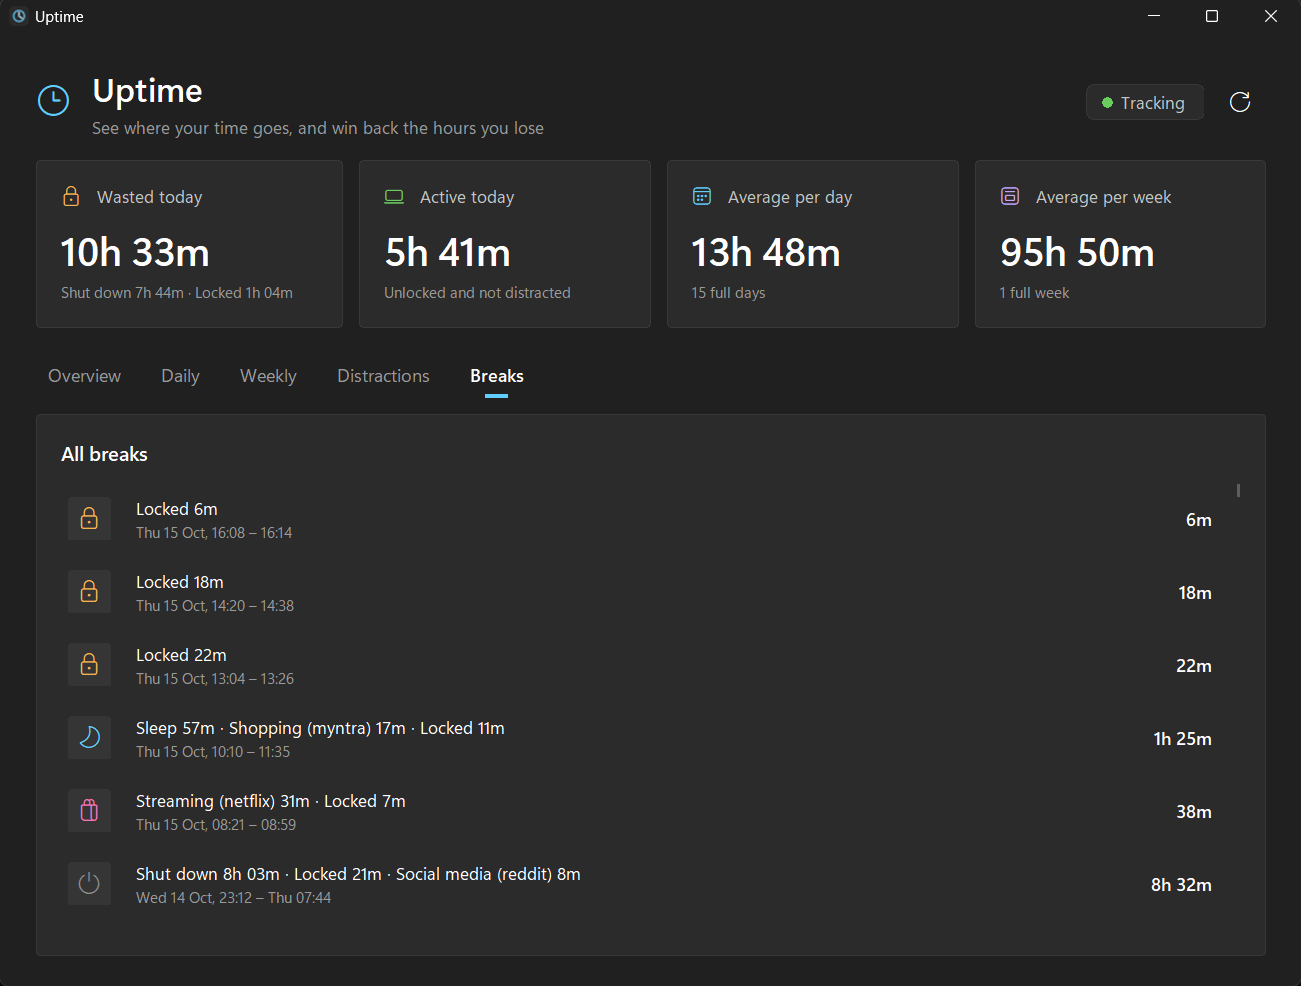
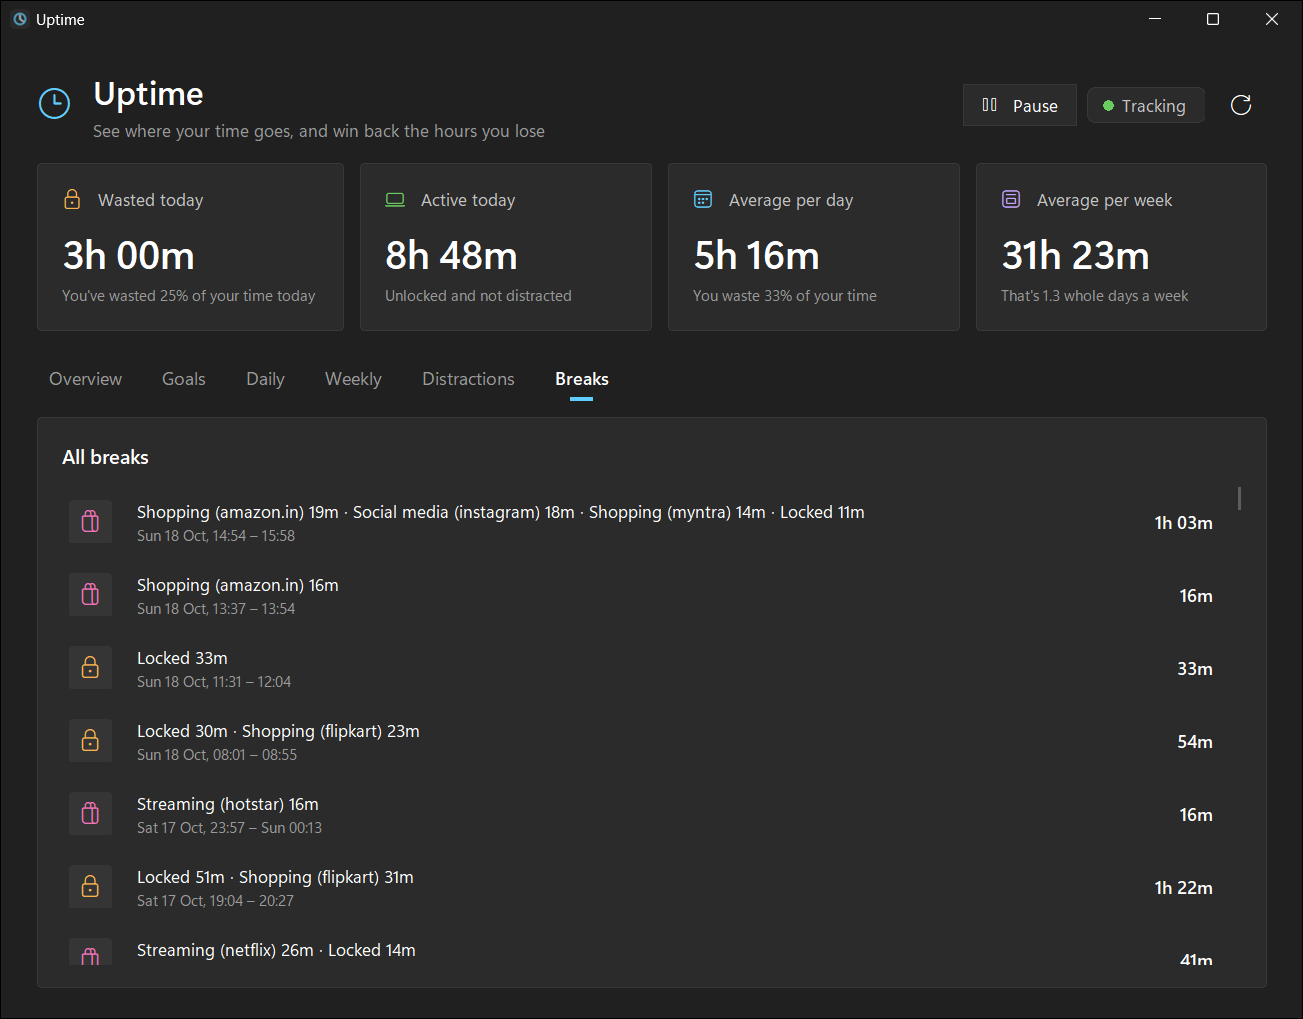
Update README and screenshots; keep long list rows on one line
- README covers the goals, the new percentages and the "whole days a
  week" figure; screenshots retaken from made-up demo data.
- Daily and Breaks rows cut long text short with … instead of wrapping
  over the line below, and rows without a bar use the full width.

diff --git a/README.md b/README.md
@@ -8,7 +8,7 @@
 
 I wanted an honest answer to *"where did my day actually go?"*. Uptime runs quietly in the background on my Windows laptop. It adds up every minute the laptop is **locked, asleep, shut down**, or sitting on a **shopping or social media site**. Then it shows me the total in a big, unforgiving number.
 
-It turns out that seeing *"Wasted today: 6h 12m"* and *"Shopping · flipkart: 1h 40m this week"* is surprisingly good motivation to close the tab and get back to work. 😅
+It turns out that seeing *"Wasted today: 6h 12m"*, *"You waste 33% of your time"* and *"Shopping · flipkart: 1h 40m this week"* is surprisingly good motivation to close the tab and get back to work. 😅 Each morning it also asks what I want to get done that day, and reminds me what's left whenever I drift off.
 
 ![Overview](screenshots/v2_overview.png)
 
@@ -17,11 +17,11 @@ It turns out that seeing *"Wasted today: 6h 12m"* and *"Shopping · flipkart: 1h
 - **Tracks wasted time automatically.** It counts time locked (Win+L), asleep or shut down, and time on distracting apps or websites.
 - **Doesn't count your sleep.** Each morning, up to 8 hours of the night's laptop-off break counts as **Your sleep**, not wasted time (you can change the hours, or set 0 to turn it off). Stay up past that and the extra still counts.
 - **Catches distractions.** Shopping (Amazon, Flipkart, Myntra, Meesho…), social media (Instagram, Reddit…), streaming (Netflix, Hotstar…) and games count as **Distracted** time.
-- **Shows your history.** You get a 14-day chart, daily and weekly history, and a log of every break.
-- **Averages.** It shows average wasted time per day and per week.
+- **Shows your history.** You get a 14-day chart, daily and weekly history, and a log of every break. Each day shows how much of it you wasted, e.g. *"58% of 16h 00m tracked"*.
+- **Puts it in perspective.** The cards at the top turn hours into something that stings: *"You've wasted 26% of your time today"*, *"You waste 33% of your time"* on an average day, and *"That's 1.3 whole days a week"*.
 - **Asks about anything new.** The first time you use a new app or website, a small prompt asks *"Is this for work?"*. Answer **Not work** and time there counts as distracted from then on. Answer **Work** and you're never asked again. Websites are recognised by their real address (e.g. `leetcode.com`), not just the tab title. You can review and change your answers in the dashboard.
 - **Asks for today's goals.** The first time you're back each morning, a small window asks what you want to get done today. Add plain to-dos, or counters like *"5 practice questions"* that you tick off one at a time (2 / 5). Yesterday's unfinished goals are one click away. Tick things off in that window or any time in the dashboard's **Goals** tab, which also shows how earlier days went.
-- **Nudges you with a pop-up.** A small Windows-style pop-up in the top-left corner shows *"5h 12m wasted today"* when you come back to the laptop, when you open a distraction, and every 10 minutes while you stay on one. If you've set goals, it also shows what's left: *"Still to do: 3 practice questions, Read chapter 4"*. It never takes focus, clicks pass straight through it, and it doesn't appear in screen shares or recordings.
+- **Nudges you with a pop-up.** A small Windows-style pop-up in the top-left corner shows *"5h 12m wasted today"* when you come back to the laptop, when you open a distraction, and every 10 minutes while you stay on one. If you've set goals, it also lists everything that's left, over as many lines as it needs: *"Still to do: 3 practice questions, Read chapter 4"*. It never takes focus, clicks pass straight through it, and it doesn't appear in screen shares or recordings.
 - **Pauses on demand.** Pause for 3, 4 or 5 hours and Uptime switches off completely, with no tracking, no pop-ups and nothing running. It starts again by itself, and paused time doesn't count as wasted.
 - **Lets you set your own rules.** Turn categories on or off, or add your own sites and apps. YouTube, messaging and music start off, because they aren't always distractions.
 - **Looks like Windows 11.** It has a dark Windows 11-style dashboard, with smooth 144 Hz scrolling that works with precision touchpads too.
@@ -54,7 +54,7 @@ Tracking starts right away and runs at every login. Your data stays on your lapt
 - **Websites.** `src/siteinfo.py` reads the browser's address bar through Windows UI Automation, using only `ctypes`, to find the site you're on. It only reads when you switch windows or the page changes. Your answers live in `%USERPROFILE%\Uptime\labels.json` and take priority over the keyword rules.
 - **Pause.** The dashboard's **Pause** button writes the pause end time and registers a one-time Windows Task Scheduler entry to restart the tracker. The tracker notices the pause and exits. When it restarts, it records the gap as **Paused** and removes the scheduled task. Click **Resume now** in the dashboard to end a pause early.
 - **Dashboard.** `src/dashboard.pyw` is the dashboard, built with Tkinter and drawn to match Windows 11's dark theme.
-- **Averages.** They only use full days, meaning days that were at least 90% tracked, so a half-tracked first day doesn't skew them.
+- **Averages and percentages.** Averages only use full days, meaning days that were at least 90% tracked, so a half-tracked first day doesn't skew them. Percentages are out of your waking, tracked time: **Your sleep** and **Paused** time are left out, because neither can be wasted. The weekly card divides the average week by 24 hours to show how many whole days that is.
 
 ## Uninstall
 
